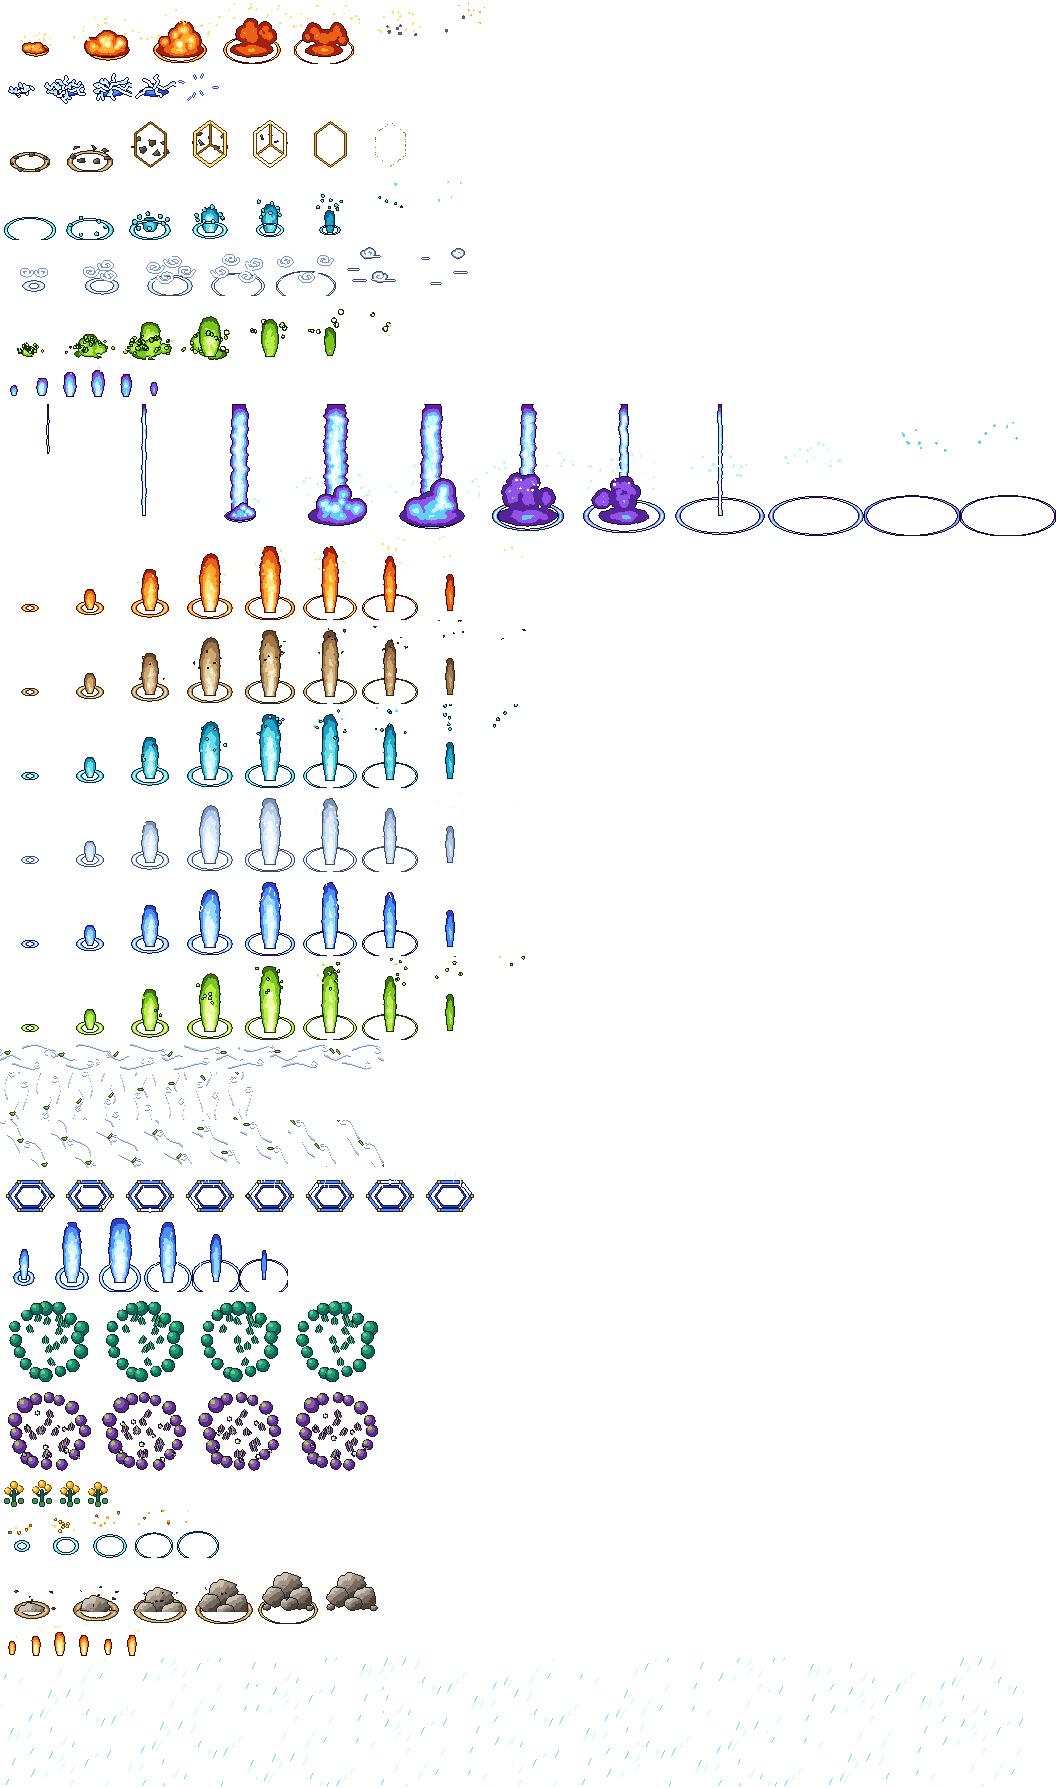
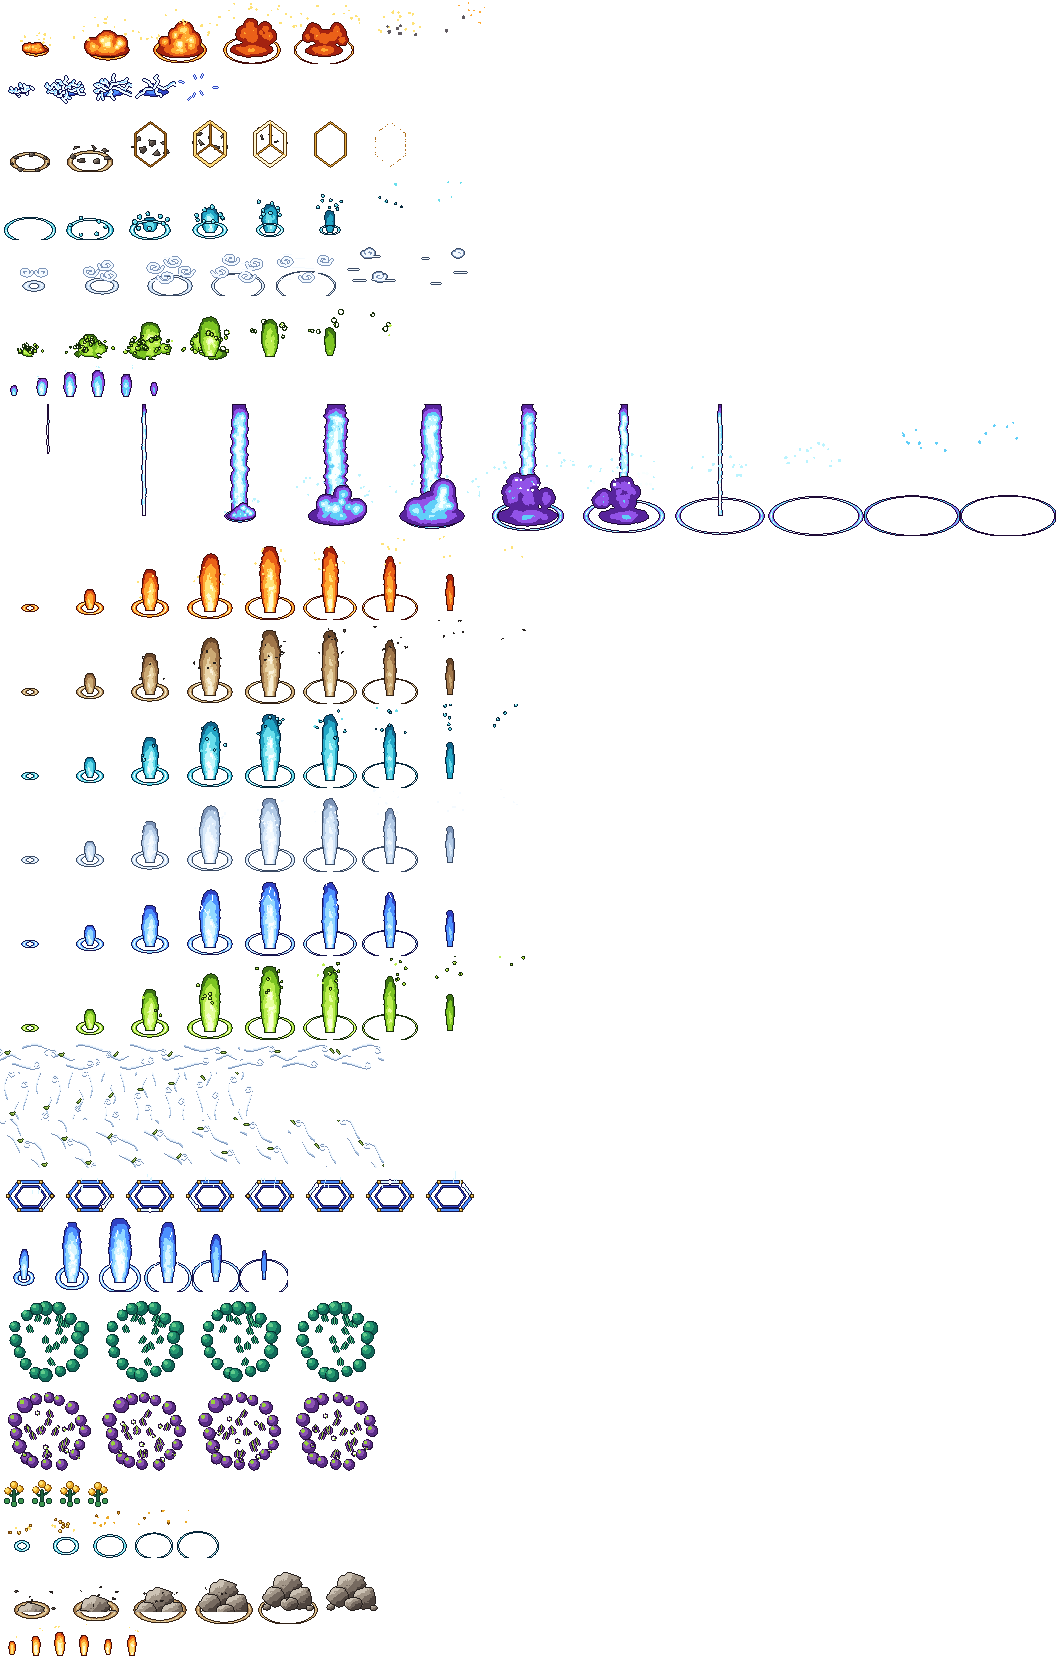
海洋峡谷不再下雨（league_dragons 0.5.2）
用户看了海洋亚龙的全部画面后：「下雨的能改了吗」，先选了「加落地水花」，看了半成品后：「算了下雨特效删了吧」。

删掉海洋峡谷的雨：tools/art/dragons_soul_fx.py 不再画 rain 这张瓦片（特效表少了最后一行，其余 25 种动画逐像素
不变、位置不变）；fx.rs 的 terrain 不再在镜头上铺雨（RAIN_MOST 一起删），测试的地形清单去掉 rain；world.rs 只有
雨在用的 sprite_on_map 删掉；rift.rs、fx.rs 的说明和 README 跟着改。海洋峡谷的玩法（新草丛隐身、蜂蜜果实回血）
不变，草丛和果实的画面也不变。和同一个 PR 里的风道改动一起算 0.5.2。

测试：dragons_soul_fx.py --check、cargo test -p league_dragons（96）通过，没有编译警告。

Changed region(s): [[0.0, 0.0, 0.4375, 1.0], [0.4688, 0.2151, 1.0, 0.338]]

diff --git a/addons/league_dragons/src/fx.rs b/addons/league_dragons/src/fx.rs
@@ -16,7 +16,7 @@
 //! | 吃掉蜂蜜果实（0.5.0） | 果实的光炸成水珠、一圈水（`fruit_eat`） |
 //!
 //! 元素峡谷的地形（0.5.0，[`super::rift`] 的位置）也在这里画（[`terrain`]）：云端的风道（一格格接起来的流动的风）、
-//! 海克斯的门、海洋的草丛 / 蜂蜜果实 / 雨、化学科技的毒雾、山脉的岩石（从地里升起来）、炼狱着火的墙。
+//! 海克斯的门、海洋的草丛 / 蜂蜜果实（0.5.2 起不再下雨）、化学科技的毒雾、山脉的岩石（从地里升起来）、炼狱着火的墙。
 //!
 //! 图是 tools/art/dragons_soul_fx.py 一格一格画的像素图（1 格 = 1 个游戏像素）：能画贴图时整帧一条贴图命令；不能时
 //! （[`super::world::plan`]）按编进 DLL 的同一份图（`fx_runs.bin`：每帧拆成一条条同色的横条）一条一条画，不靠任何文件。比赛钩子在屏幕放的那场模拟里记下
@@ -323,12 +323,9 @@ fn loop_frame(a: &Anim, t: usize) -> usize {
     (t / a.ticks.max(1) as usize) % a.frames.max(1) as usize
 }
 
-/// 雨最多铺这么多格（镜头拉得再远也不多画）。
-const RAIN_MOST: usize = 240;
-
 /// 峡谷变成 `element`（在 tick `since`）以后的地形：变形后 [`rift::RISE_T`] tick 才有（岩石从变形那一刻开始往上升）。
 /// 躺在地上的（风纹、门、草丛、果实、岩石）画在地上那一层（[`world::View::on_ground`]：墙和草丛上面、单位下面——英雄走在
-/// 上面看得见）；墙上的火、雨画在特效那一层（单位上面、血条下面）。-> 画了几样。
+/// 上面看得见）；墙上的火画在特效那一层（单位上面、血条下面）。-> 画了几样。
 pub fn terrain(ctx: &mut StableClient<'_>, v: &world::View, m: u64, s: u64, t: usize, element: Element, since: usize) -> usize {
     let age = t.saturating_sub(since);
     let live = age >= rift::RISE_T;
@@ -388,22 +385,6 @@ pub fn terrain(ctx: &mut StableClient<'_>, v: &world::View, m: u64, s: u64, t: u
         }
         _ => {}
     }
-    // the Ocean rift's rain: tiles over what the camera sees (the map's own coordinates: it does not move with the world)
-    if element == Element::Ocean && live {
-        if let (Some(a), Some((x, y, w, h))) = (anim("rain"), v.camera) {
-            let (tw, th) = (a.w as f32, a.h as f32);
-            let fr = loop_frame(a, t);
-            let (x0, y0) = ((x / tw).floor() * tw, (y / th).floor() * th);
-            let (cols, rows) = (((x + w - x0) / tw).ceil() as usize, ((y + h - y0) / th).ceil() as usize);
-            if cols > 0 && rows > 0 && cols * rows <= RAIN_MOST {
-                for r in 0..rows {
-                    for c in 0..cols {
-                        n += world::sprite_on_map(ctx, v, a, fr, (x0 + c as f32 * tw, y0 + r as f32 * th)) as usize;
-                    }
-                }
-            }
-        }
-    }
     n
 }
 
@@ -424,7 +405,7 @@ pub fn draw(ctx: &mut StableClient<'_>, m: u64, s: u64, t: usize, rift: Option<(
                 if let Some(k) = counted("terrain") {
                     wlog(format!("TERRAIN m={m} s={s} screen t={t}: the {} rift (turned at t={since}, live {}) - {n} pictures \
                                   drawn in the match world: what lies on the ground at z {} (the map's walls' layer, under the \
-                                  units), fire and rain at z {} (over the units, under the gauges), sprites {} #{k}", element.key(), key.3, v.ground, v.z, v.sprites));
+                                  units), fire at z {} (over the units, under the gauges), sprites {} #{k}", element.key(), key.3, v.ground, v.z, v.sprites));
                 }
             }
         }
@@ -549,8 +530,7 @@ mod tests {
     }
 
     /// The pictures of the rift's terrain (not effects: drawn for as long as the rift lasts).
-    const TERRAIN: [&str; 10] = ["wind_h", "wind_v", "wind_d", "gate", "brush_ocean", "brush_chem", "fruit", "rock", "ember",
-                                 "rain"];
+    const TERRAIN: [&str; 9] = ["wind_h", "wind_v", "wind_d", "gate", "brush_ocean", "brush_chem", "fruit", "rock", "ember"];
 
     #[test]
     fn the_wind_is_tiled_along_each_current() {

diff --git a/tools/art/dragons_soul_fx.py b/tools/art/dragons_soul_fx.py
@@ -1,7 +1,7 @@
 """The dragons mod's own pictures on the battlefield. 0.4.0 (the user, 2026-11-11: 「拿了龙魂没有特效的 都要补 还有远古龙
 斩杀特效的」): what a Dragon Soul does each time it triggers, the soul taken, the Elder Dragon's burn and its execute.
 0.5.0, the elemental rift's terrain: the Cloud rift's wind currents, the Hextech rift's gates, the Ocean rift's brush,
-honeyfruit and rain, the Chemtech rift's fog, the Mountain rift's rocks, the Infernal rift's burning walls. Pixel art drawn square by square with tools/art/dragon_fx.py's brushes (a few flat tones of the element, a dark
+honeyfruit (its rain went in 0.5.2), the Chemtech rift's fog, the Mountain rift's rocks, the Infernal rift's burning walls. Pixel art drawn square by square with tools/art/dragon_fx.py's brushes (a few flat tones of the element, a dark
 outline, no blur, no half-transparent pixels), one square = one game pixel (1000 simulation units): the mod's client
 extension draws these frames itself on the match's own render map (addons/league_dragons/src/world.rs), no champion's
 data needed.
@@ -624,29 +624,11 @@ def ember():
     return w, h, anchor, 6, out
 
 
-def rain():
-    """a tile of the Ocean rift's rain: thin streaks falling down and a little left. It repeats every 128 squares both
-    ways; each of its 8 frames is the last one moved on by (-16, 32), a whole tile every 4 and 8 frames"""
-    w = h = 128
-    rng = np.random.default_rng(2000)
-    drops = [(rng.uniform(0, w), rng.uniform(0, h), rng.uniform(4, 8), int(rng.integers(3, 5))) for _ in range(40)]
-    out = []
-    for i in range(8):
-        f = blank(w, h)
-        for x, y, ln, k in drops:
-            px, py = (x - i * 16) % w, (y + i * 32) % h
-            for ox in (-w, 0, w):
-                for oy in (-h, 0, h):
-                    fx.stroke(f, [(px + ox, py + oy), (px + ox - ln * 0.5, py + oy + ln)], tone("ocean", k), 1)
-        out.append(f)
-    return w, h, (0, 0), 3, out
-
-
 def terrain():
     """the elemental rift's pictures, in the sheet's order after the effects"""
     return [("wind_h",) + wind("h"), ("wind_v",) + wind("v"), ("wind_d",) + wind("d"), ("gate",) + gate(),
             ("gate_flash",) + gate_flash(), ("brush_ocean",) + brush("ocean"), ("brush_chem",) + brush("chemtech"),
-            ("fruit",) + fruit(), ("fruit_eat",) + fruit_eat(), ("rock",) + rock(), ("ember",) + ember(), ("rain",) + rain()]
+            ("fruit",) + fruit(), ("fruit_eat",) + fruit_eat(), ("rock",) + rock(), ("ember",) + ember()]
 
 
 def animations():

diff --git a/addons/league_dragons/src/rift.rs b/addons/league_dragons/src/rift.rs
@@ -7,7 +7,7 @@
 //! |---|---|
 //! | 云端 | 五条风道（河道、两边野区各两条）：英雄走在里面移速 +20%（[`WIND`]，出来后还剩不到半秒） |
 //! | 海克斯 | 四对传送门（每队两对：本方上野区 ↔ 龙坑旁，本方下野区 ↔ 男爵坑旁）：脱战、朝着另一头走的英雄踩上去立刻传过去，每人 20 秒冷却 |
-//! | 海洋 | 六片新草丛（站在里面、里面没有敌方英雄、刚才没出手：敌人看不见）；四个蜂蜜果实（受了伤的英雄走过去吃掉回血，45 秒再长）；画面下雨 |
+//! | 海洋 | 六片新草丛（站在里面、里面没有敌方英雄、刚才没出手：敌人看不见）；四个蜂蜜果实（受了伤的英雄走过去吃掉回血，45 秒再长）；0.5.2 起不再下雨（用户：「算了下雨特效删了吧」） |
 //! | 化学科技 | 六片毒雾草丛（和海洋的草丛一样的规矩，位置不同） |
 //! | 山脉 | 六堆碎石（不挡人：英雄走在上面移速 -30%，[`RUBBLE`]，下来后不到 0.2 秒就没了） |
 //! | 炼狱 | 只有画面（龙坑、男爵坑周围的墙上着火）：游戏烘好的草丛和墙局内改不了 |

diff --git a/addons/league_dragons/src/fx_atlas.rs b/addons/league_dragons/src/fx_atlas.rs
@@ -18,9 +18,9 @@ pub struct Anim {
 }
 
 /// The sheet's size in pixels.
-pub const SHEET: (u16, u16) = (1056, 1788);
+pub const SHEET: (u16, u16) = (1056, 1660);
 
-pub const ANIMS: [Anim; 26] = [
+pub const ANIMS: [Anim; 25] = [
     Anim { name: "infernal_blast", x: 0, y: 0, w: 72, h: 64, frames: 7, per_row: 7, ax: 36, ay: 50, ticks: 4 },
     Anim { name: "hex_spark", x: 0, y: 64, w: 44, h: 44, frames: 5, per_row: 5, ax: 22, ay: 26, ticks: 4 },
     Anim { name: "mountain_shield", x: 0, y: 108, w: 60, h: 64, frames: 7, per_row: 7, ax: 30, ay: 54, ticks: 5 },
@@ -46,5 +46,4 @@ pub const ANIMS: [Anim; 26] = [
     Anim { name: "fruit_eat", x: 0, y: 1510, w: 44, h: 48, frames: 5, per_row: 5, ax: 22, ay: 36, ticks: 5 },
     Anim { name: "rock", x: 0, y: 1558, w: 64, h: 66, frames: 6, per_row: 6, ax: 32, ay: 42, ticks: 30 },
     Anim { name: "ember", x: 0, y: 1624, w: 24, h: 34, frames: 6, per_row: 6, ax: 12, ay: 30, ticks: 6 },
-    Anim { name: "rain", x: 0, y: 1658, w: 128, h: 128, frames: 8, per_row: 8, ax: 0, ay: 0, ticks: 3 },
 ];

diff --git a/addons/league_dragons/src/world.rs b/addons/league_dragons/src/world.rs
@@ -708,15 +708,6 @@ pub fn sprite(ctx: &mut StableClient<'_>, v: &View, a: &Anim, frame: usize, at: 
     sprite_top_left(ctx, GAME, v.z, a, frame, x, y)
 }
 
-/// 画一帧动画，锚点放在 `"Game"` 里的 `at`（不跟着世界走的东西：海洋峡谷的雨铺在镜头看着的那一块上）。
-pub fn sprite_on_map(ctx: &mut StableClient<'_>, v: &View, a: &Anim, frame: usize, at: (f32, f32)) -> bool {
-    if !v.sprites {
-        return false;
-    }
-    let (x, y) = corner(a, at);
-    sprite_top_left(ctx, GAME, v.z, a, frame, x, y)
-}
-
 /// 世界里的一横条像素（`x`、`y` 是世界像素，`w` 条宽）：`0xRRGGBBAA`。
 pub fn run(ctx: &mut StableClient<'_>, v: &View, x: i32, y: i32, w: i32, colour: u32) -> bool {
     let (mx, my) = v.px((x as f32, y as f32));

diff --git a/addons/league_dragons/README.md b/addons/league_dragons/README.md
@@ -360,7 +360,7 @@ base、attack 5 × 80、dead 8 × 80；莫尔加德另有 attack_left / attack_r
 |---|---|---|
 | 云端 | 五条风道：河道一条（男爵坑口到龙坑口），两边上野区各一条，两边下野区通龙坑 / 男爵坑各一条。英雄走在里面**移速 +20%** | 每 6 tick 看一次，在风道里（离中线 36000 以内）的英雄续上 24 tick 的 `league_dragons_rift_wind`（`move_speed_mult` 20），出来不到半秒就没了；两队都有 |
 | 海克斯 | 四对传送门：蓝色方的上野区 ↔ 龙坑的西南口、下野区 ↔ 男爵坑的西南口，红色方照镜像。**脱战、朝着另一头走**的英雄踩上去立刻到另一头，**每人 20 秒**一次 | 离门心 18000 以内、3 秒内没挨打没出手、这两次看之间走了 600 以上而且方向和「门 → 另一头」差不到 60 度：`entity_set_pos` 到另一头。两队都能用 |
-| 海洋 | 六片新草丛（河道上男爵坑口、龙坑口各一片，四块野区各一片）：站在里面、里面没有敌方英雄、1 秒内没出手，敌人就看不见。四个蜂蜜果实（男爵坑口两个、龙坑口两个）：受了伤（生命低于 95%）的英雄走过去吃掉，回 **8% 最大生命 + 10% 已损生命**，45 秒后再长出来。画面下雨 | 草丛：每 6 tick 给该藏的人 `entity_set_invisible` 10 tick（游戏的隐身：敌人丢视野和目标）。只藏敌人现在看得见的或本包正藏着的——别的技能的隐身不碰、不会被缩短。果实：`heal`，记下一次长好的 tick |
+| 海洋 | 六片新草丛（河道上男爵坑口、龙坑口各一片，四块野区各一片）：站在里面、里面没有敌方英雄、1 秒内没出手，敌人就看不见。四个蜂蜜果实（男爵坑口两个、龙坑口两个）：受了伤（生命低于 95%）的英雄走过去吃掉，回 **8% 最大生命 + 10% 已损生命**，45 秒后再长出来。0.5.1 以前画面还下雨，0.5.2 删了（用户：「算了下雨特效删了吧」） | 草丛：每 6 tick 给该藏的人 `entity_set_invisible` 10 tick（游戏的隐身：敌人丢视野和目标）。只藏敌人现在看得见的或本包正藏着的——别的技能的隐身不碰、不会被缩短。果实：`heal`，记下一次长好的 tick |
 | 化学科技 | 六片毒雾（两边上野区、下野区各一片，龙坑的北边和西边各一片）：和海洋的草丛一样藏人 | 同上，位置不同；没有果实 |
 | 山脉 | 六堆碎石（河道上龙坑口、男爵坑口各一堆，龙坑的西南口和东北口各一堆，两边上野区的过道里各一堆）：谁都能走过去，英雄走在上面**移速 -30%** | 每 6 tick 看一次，站在碎石上（离石头心 20000 + 身体以内）的英雄续上 12 tick 的 `league_dragons_rift_rubble`（`move_speed_mult` -30），下来后不到 0.2 秒就没了；两队都有，小兵、野怪不受影响。0.5.0 是挡人的岩石，见下面「山脉的岩石不挡路」 |
 | 炼狱 | 龙坑、男爵坑周围 16 格墙上着火 | **只有画面**：游戏烘好的草丛、墙和寻路局内改不了，烧草丛、炸墙做不出来（公告里写明「草丛和墙不变」） |
@@ -376,10 +376,10 @@ base、attack 5 × 80、dead 8 × 80；莫尔加德另有 attack_left / attack_r
 画面（`src/fx.rs` 的 `terrain`，画法同「战场上的特效」）：风道是一格格接起来的流动的风纹（0.5.2 起是一道道弯曲的气流：
 尾巴细、往头上变粗变白，外侧两道在头上卷一个圈，和云端亚龙吐息里的旋风一样，中间夹一片翻滚的叶子；竖着和沿河道斜着的风道往
 上吹。0.5.1 以前是一排排等距平行的短直线，竖的和斜的往下流，用户：「风龙的特效有点怪 看起来像下雨」），传送门是地上一圈海克斯蓝的六边环，
-草丛 / 毒雾是一圈叶丛（中间留空，看得见里面的人），果实长好了才画，岩石从变形那一刻起 3 秒升起来，海洋峡谷的雨铺在镜头看着的
-那一块上（只在画贴图时画）；走进传送门两头各一道光柱，吃果实一圈水花。HUD 的说明框多一行「云端峡谷：…」。
+草丛 / 毒雾是一圈叶丛（中间留空，看得见里面的人），果实长好了才画，岩石从变形那一刻起 3 秒升起来（海洋峡谷 0.5.1 以前还在镜头看着的那一块上
+下雨，0.5.2 删了）；走进传送门两头各一道光柱，吃果实一圈水花。HUD 的说明框多一行「云端峡谷：…」。
 层级：躺在地上的（风纹、门、草丛 / 毒雾、果实、岩石）画在地图的墙那一层（`View::on_ground`：排在游戏自己的后面，所以在墙和草丛
-上面、单位下面——英雄走在上面看得见，游戏的回城特效的后半也在这一层）；墙上的火、雨、走门和吃果实的特效画在墙的前脸那一层
+上面、单位下面——英雄走在上面看得见，游戏的回城特效的后半也在这一层）；墙上的火、走门和吃果实的特效画在墙的前脸那一层
 （单位上面、血条下面，和游戏自己的技能特效一样）。认不出墙那张图时全画在特效那一层。
 
 ### 和英雄联盟不一样的地方
